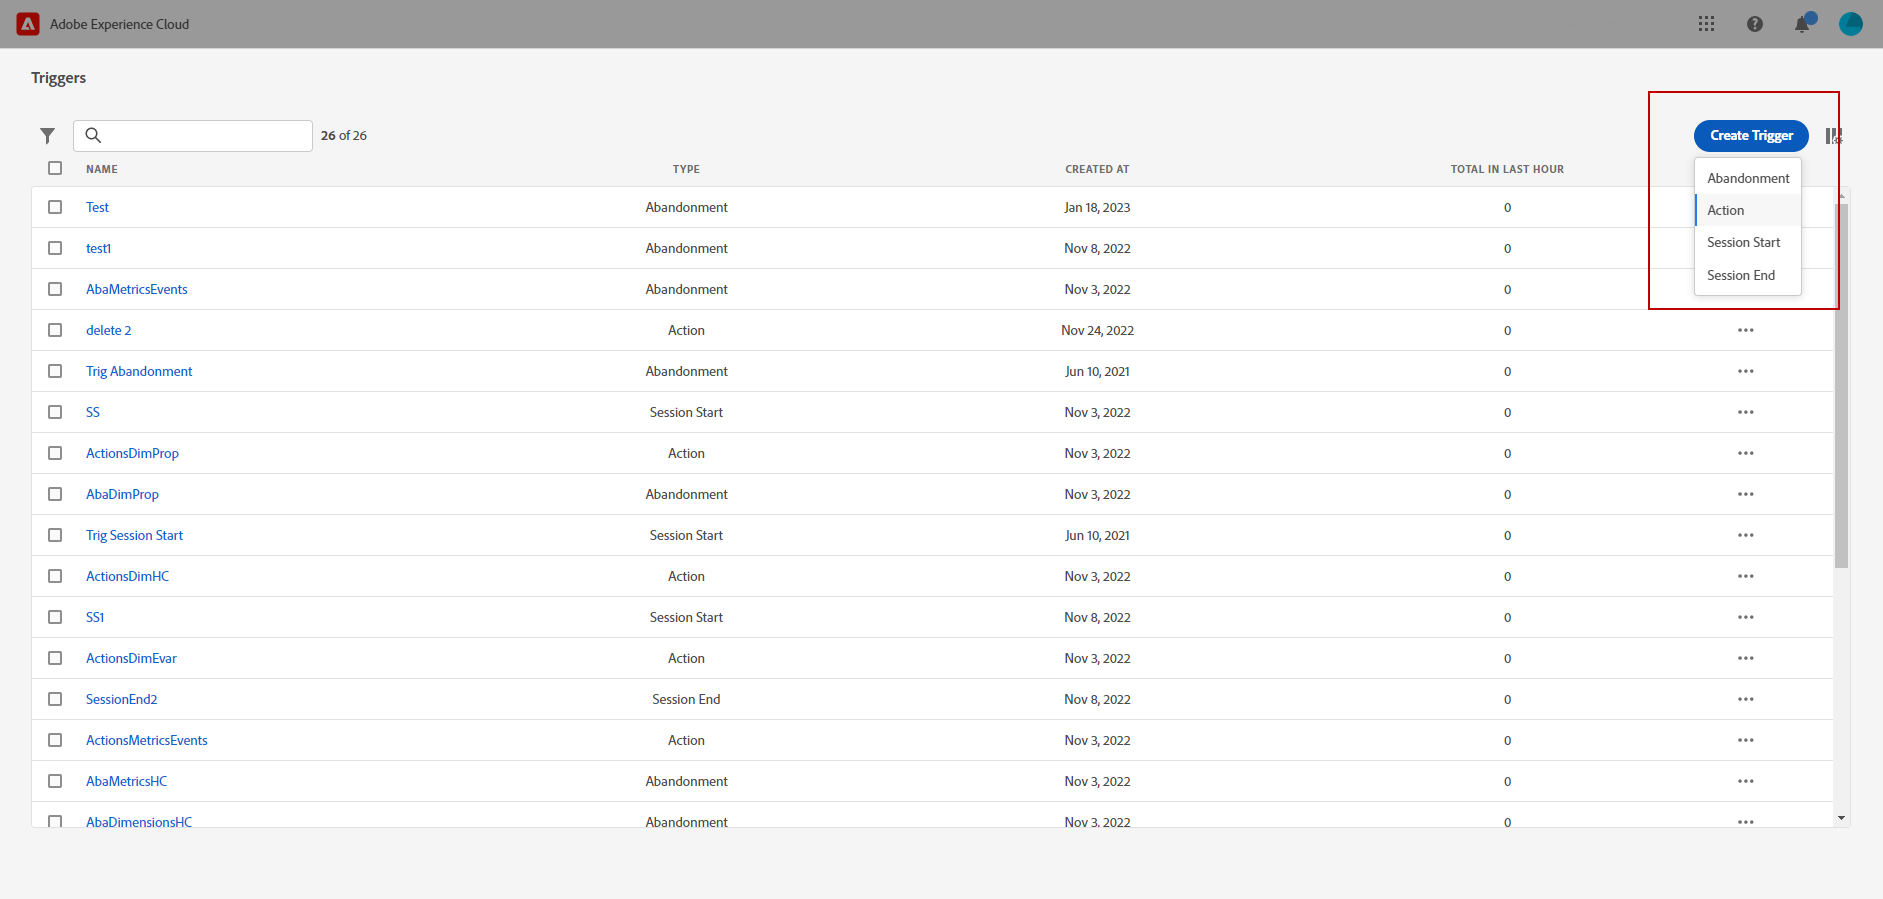
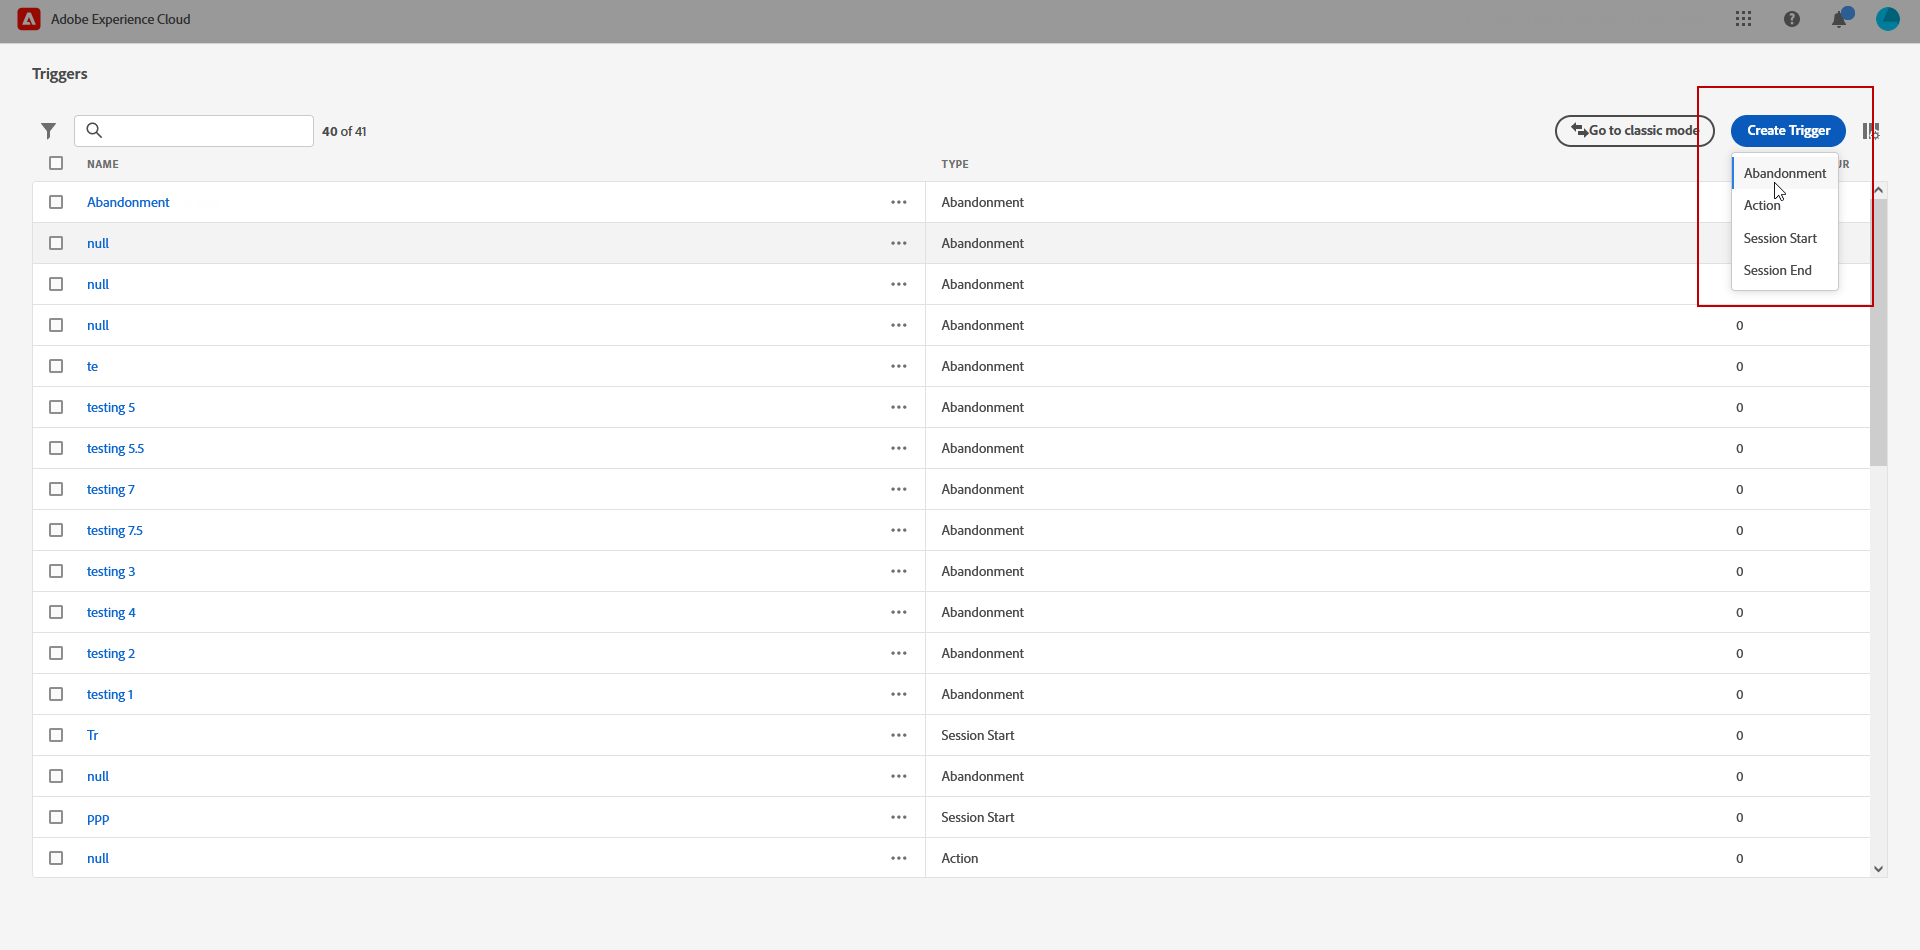
update triggers

diff --git a/help/triggers/create.md b/help/triggers/create.md
@@ -4,6 +4,17 @@ description: Discover Adobe Experience Cloud Triggers UI
 ---
 # Create an Experience Cloud trigger {#create-triggers}
 
+>[!NOTE]
+>
+> The new user interface for Experience Cloud Triggers offers an intuitive experience to manage consumer behaviors and personalize user experiences. To switch back to the previous interface, click the **[!UICONTROL Go to classic mode]** button.
+
+Experience Cloud Triggers provides a comprehensive solution for identifying, defining, and monitoring critical consumer behaviors. With these triggers, you can generate cross-application communications to re-engage visitors, resulting in a more personalized and engaging user experience. 
+You can use triggers in real-time decisions and personalization, for example:
+
+* Configure fast re-marketing campaigns for cart abandonments or cart abandonments with products removed, helping to increase conversions and revenue.
+* Identify incomplete forms and applications, enabling you to follow up with personalized communications to encourage completion and reduce abandonment rates.
+* Monitor any actions or sequences of actions on your site that you want to track, providing valuable insights into user behavior and enabling you to optimize the user experience based on their actions.
+
 Create a trigger and configure the conditions for the trigger. For example, you can specify the criteria for a trigger's rules during a visit, such as metrics like Cart Abandon, or dimensions like the product name. When the rules are met, the trigger runs.
 
 1. In the Experience Cloud, select the advanced menu, then Triggers.
